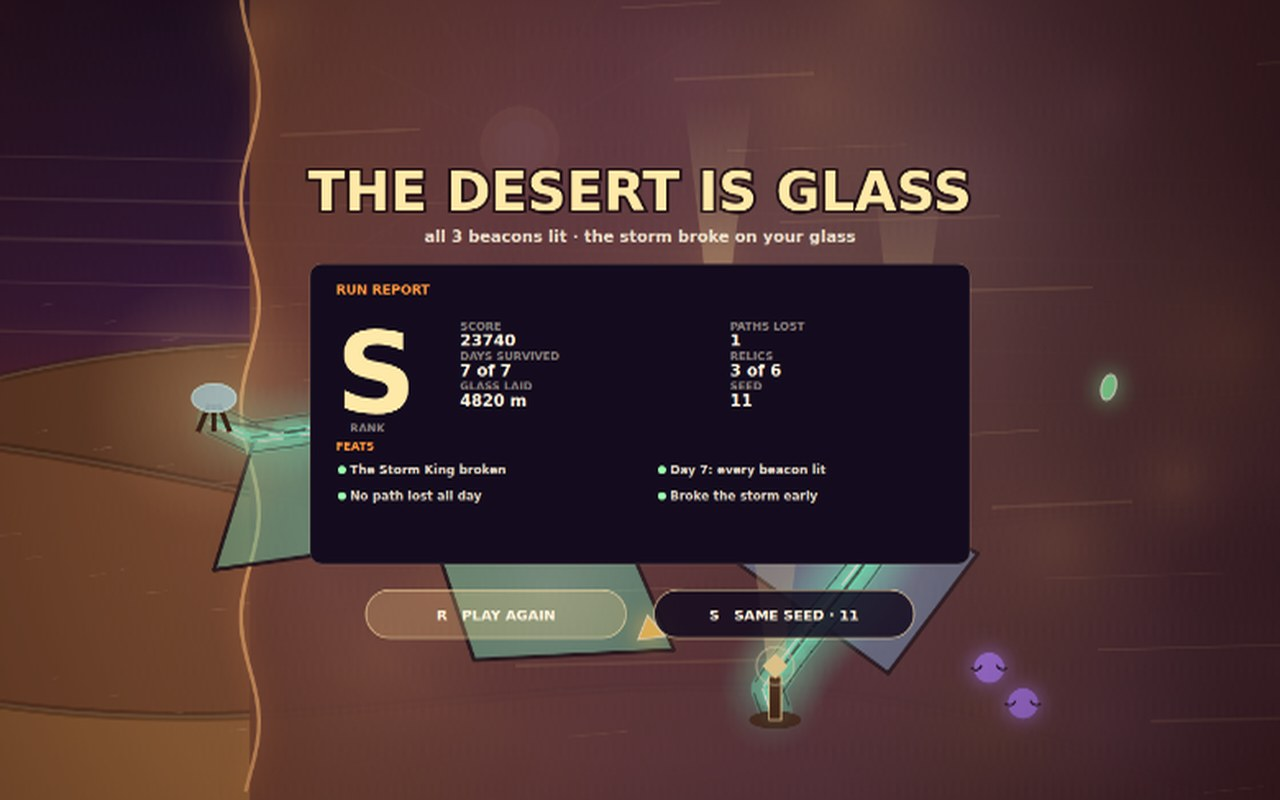
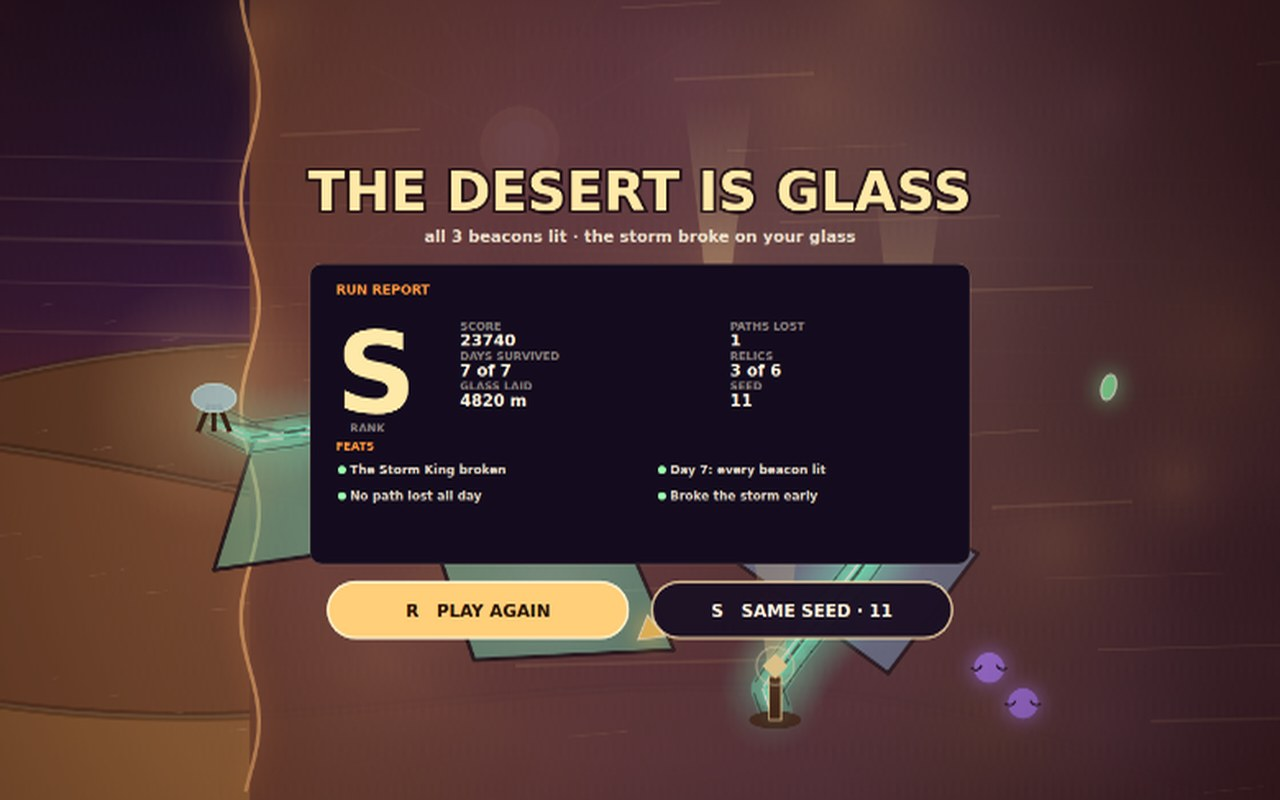
Loud restart buttons: the loop has to read at thumbnail size

Changed region(s): [[0.25, 0.7188, 0.75, 0.8125]]

diff --git a/game/src/screens.js b/game/src/screens.js
@@ -384,20 +384,21 @@ export function drawEnd(ctx, state) {
     ? [['R', 'PLAY AGAIN'], ['S', `SAME SEED · ${state.seed}`]]
     : [['R', 'PLAY AGAIN'], ['S', `SAME SEED · ${state.seed}`]];
   buttons.forEach(([key, label], index) => {
-    const w = 260;
-    const x = ARENA.w / 2 - w - 14 + index * (w + 28);
-    const y = cardY + cardH + 26;
-    ctx.fillStyle = index === 0 ? 'rgba(255,214,140,0.24)' : 'rgba(20,12,30,0.85)';
+    const w = 300;
+    const x = ARENA.w / 2 - w - 12 + index * (w + 24);
+    const y = cardY + cardH + 18;
+    // The restart buttons are the loop's proof, so they stay loud even at thumbnail size.
+    ctx.fillStyle = index === 0 ? '#ffcf7a' : 'rgba(28,16,36,0.98)';
     ctx.beginPath();
-    ctx.roundRect(x, y, w, 48, 24);
+    ctx.roundRect(x, y, w, 56, 28);
     ctx.fill();
-    ctx.strokeStyle = 'rgba(255,226,170,0.6)';
-    ctx.lineWidth = 1.6;
+    ctx.strokeStyle = index === 0 ? '#fff2cf' : 'rgba(255,226,170,0.8)';
+    ctx.lineWidth = 2.4;
     ctx.stroke();
     ctx.textAlign = 'center';
-    ctx.font = font(14, 900);
-    ctx.fillStyle = '#fff4de';
-    ctx.fillText(`${key}   ${label}`, x + w / 2, y + 30);
+    ctx.font = font(17, 900);
+    ctx.fillStyle = index === 0 ? '#2a1408' : '#fff4de';
+    ctx.fillText(`${key}   ${label}`, x + w / 2, y + 35);
   });
   ctx.textAlign = 'left';
   void RELICS;
